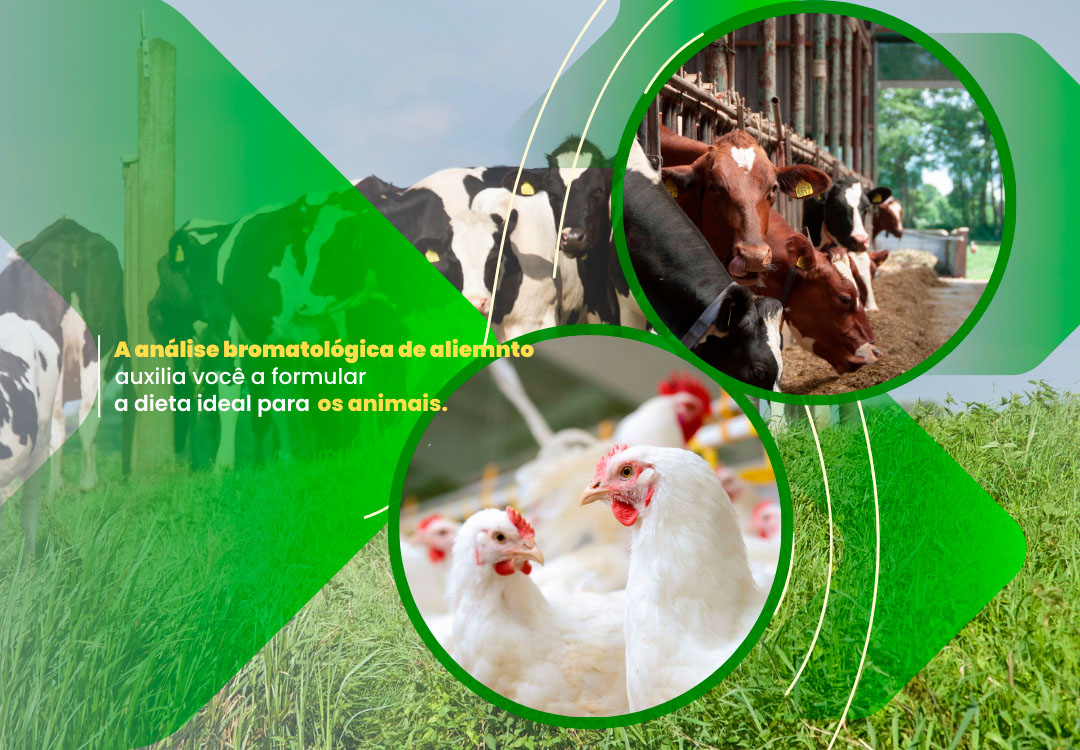
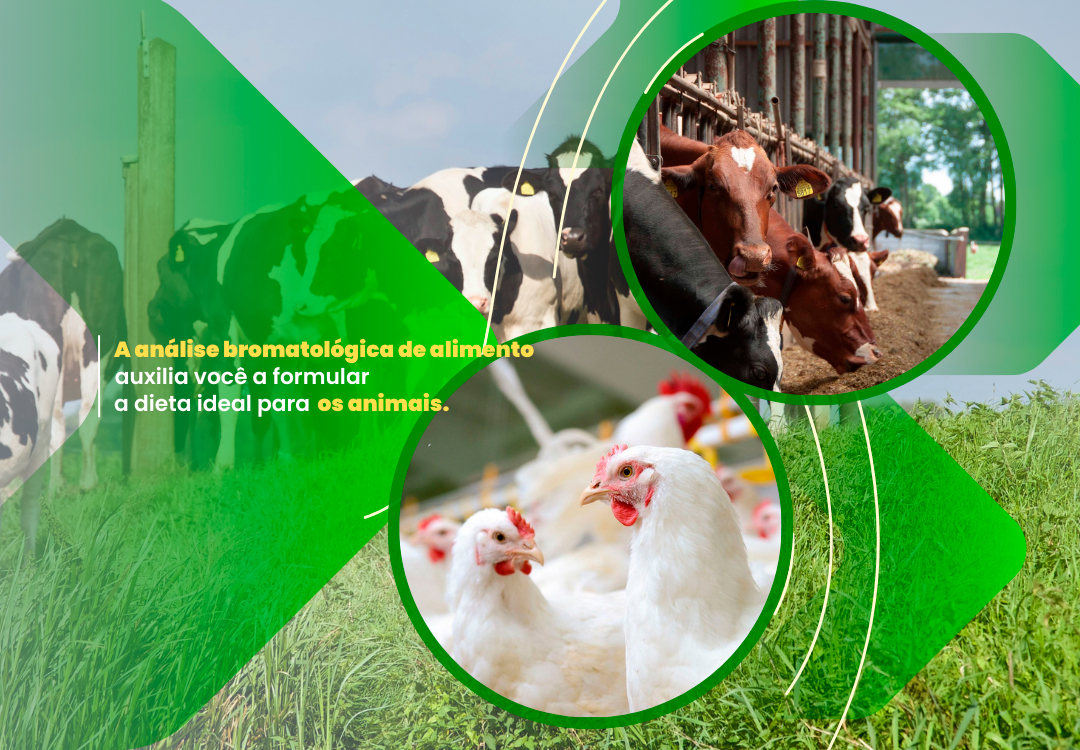
img atualização

Changed region(s): [[0.1222, 0.4907, 0.4278, 0.552], [0.4278, 0.46, 0.4583, 0.4907]]

diff --git a/index.html b/index.html
@@ -74,7 +74,7 @@
                 <div class="slide">
                     <picture>
                         <source media="(max-width: 700px)" srcset="img/Banner4mobile.jpg">
-                        <img src="img/banner4jpg.jpg" alt="Análise bromatologica para uma dieta saudável dos animais" >
+                        <img src="img/Banner4.jpg" alt="Análise bromatologica para uma dieta saudável dos animais" >
                     </picture>
                 </div>
                 
